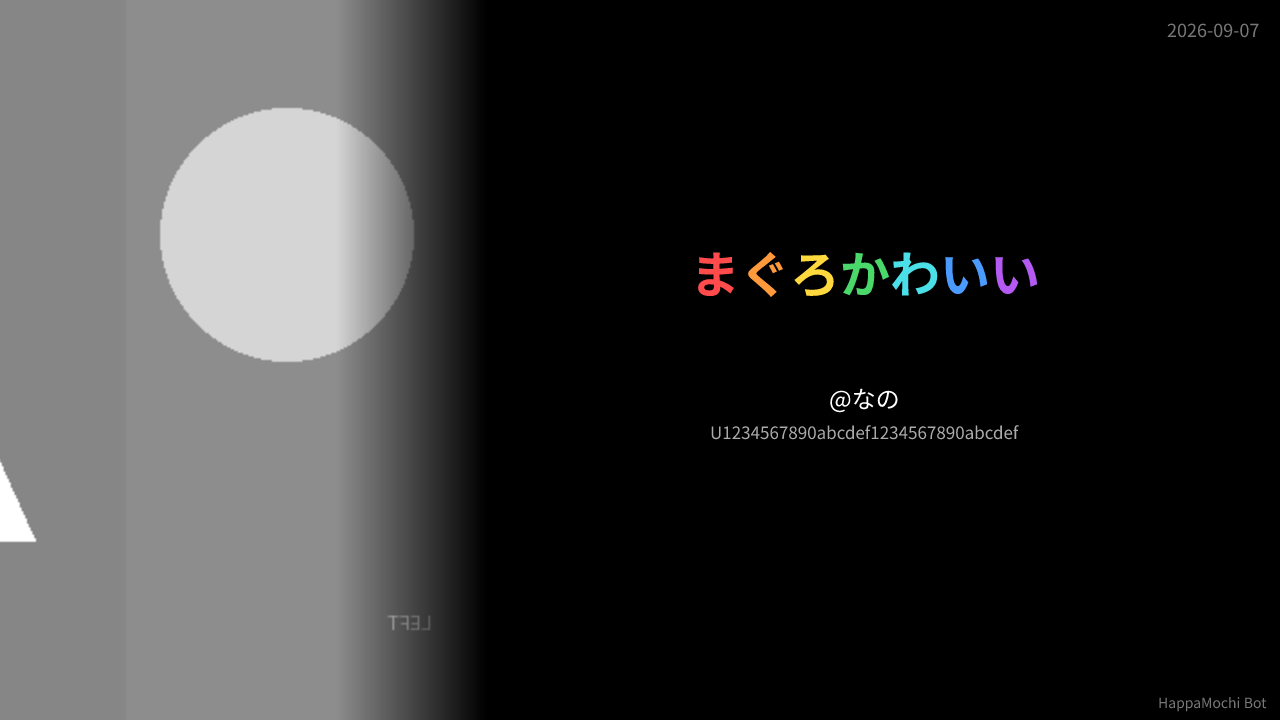
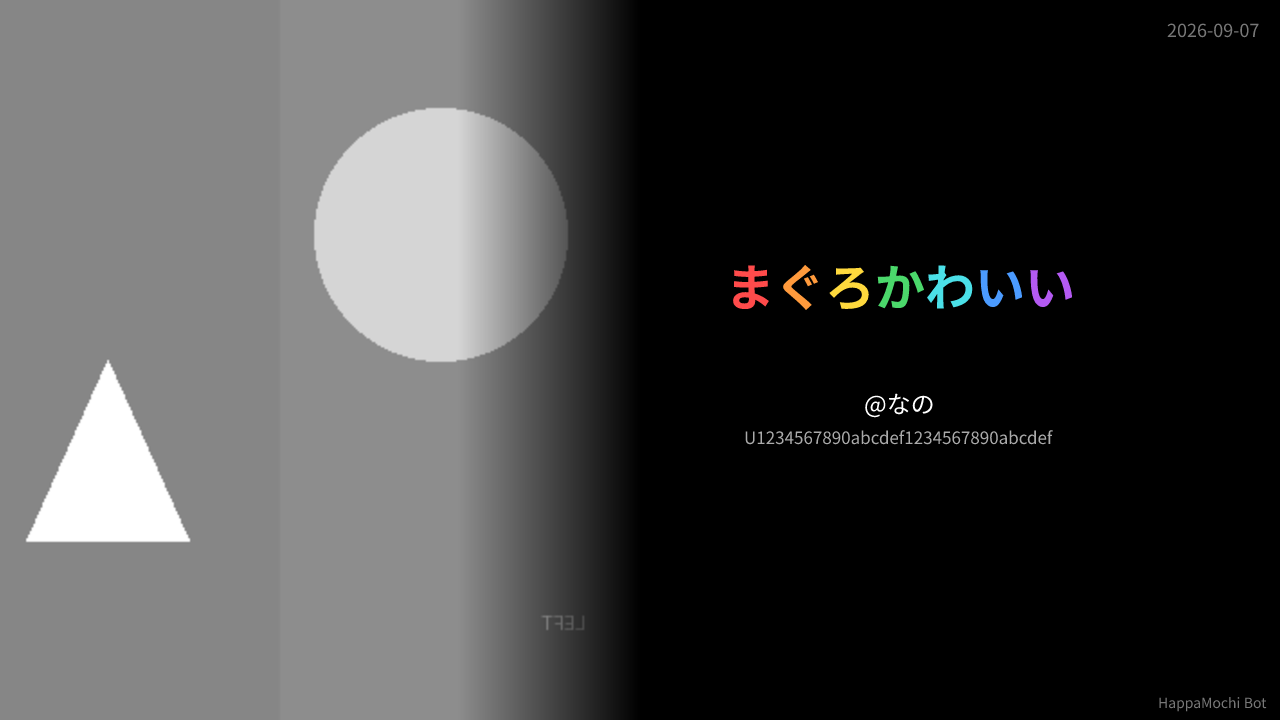
newレイアウトが普通のめいくと見た目が違う不具合を修正(寸法は常に既存カードと同一にし、newは日付追加のみ)

diff --git a/src/lib/imageGen.ts b/src/lib/imageGen.ts
@@ -496,10 +496,15 @@ function buildCustomCard(
   // レイアウト寸法。
   //   standard: 既存カードと同じ 写真640 / フェード182 / テキスト中心899.5
   //   new     : 写真を狭めて(38%)テキスト領域を広く取る。MiqXの実測比率。
-  const photoWidth = p.layoutNew ? 486 : 640
-  const fadeWidth = p.layoutNew ? 150 : 182
-  const textLeft = p.layoutNew ? 470 : 559
-  const textWidth = p.layoutNew ? 790 : 681
+  // レイアウト寸法は new でも変えない。
+  // 以前 new のときだけ写真を486pxに縮めてテキスト位置もずらしていたが、
+  // 「普通のめいくと見た目が違う」という不具合になった。
+  // new が変えるのは「右上に日付を出す」ことだけで、
+  // 写真幅・フェード幅・テキストの位置と大きさは常に既存カードと同一にする。
+  const photoWidth = 640
+  const fadeWidth = 182
+  const textLeft = 559
+  const textWidth = 681
 
   const bg = p.whiteBase ? '#FFFFFF' : '#000000'
   const fadeTo = p.whiteBase ? '255,255,255' : '0,0,0'
@@ -576,7 +581,8 @@ function buildCustomCard(
   }
 
   // --- 引用文 ---
-  const quoteTop = avatarDataUrl ? (p.layoutNew ? 236 : 249) : 250
+  // 縦位置も既存カードと完全に同じ(引用文249 / 著者385 / userId424)。
+  const quoteTop = avatarDataUrl ? 249 : 250
   children.push({
     type: 'div',
     props: {
@@ -601,7 +607,7 @@ function buildCustomCard(
   })
 
   // --- 著者名 ---
-  const authorTop = avatarDataUrl ? (p.layoutNew ? 380 : 385) : 400
+  const authorTop = avatarDataUrl ? 385 : 400
   children.push({
     type: 'div',
     props: {
